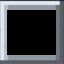
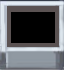
thrown off dishes into bin

diff --git a/src/entity/Bin.java b/src/entity/Bin.java
@@ -5,19 +5,53 @@ import entity.base.Block;
 import entity.base.Entity;
 import entity.base.Interactable;
 import exception.InteractFailedException;
+import javafx.scene.canvas.GraphicsContext;
+import javafx.scene.image.Image;
 import logic.Sprites;
+import screen.GameScreen;
 
 public class Bin extends Block implements Interactable{
+	private static Image bintest = new Image(ClassLoader.getSystemResource("picture/bintest.png").toString());
+	private static Image bintest2 = new Image(ClassLoader.getSystemResource("picture/bintest2.png").toString());
+			
+	
 	public boolean interacts(Player e) throws InteractFailedException{
 		if (e.isHolding()) {
-			e.setEntityHeld(null);
-			e.setHolding(false);
-			return true;
+			//if player holding something, remove holding entity (throws it into bin)
+			Entity entity = e.removeHoldingEntity();
+			
+			if(entity instanceof Dish) {
+				System.out.println(((Dish) entity).toString()+" @("+entity.getX()+","+entity.getY()+") has been thrown off!");
+			}
+			return true; 
+			
 		}else{
+			System.out.println("YOU ARE NOT HOLDING ANYTHING");
 			throw new InteractFailedException("There is nothing to be cast");//throw an exception; nothing to be consumed
 		}
 	}
 	public char getSymbol() {
 		return Sprites.Bin;
+	}
+	@Override
+	public int getZ() {
+		return getY()*3;
+	}
+	@Override
+	public void draw(GraphicsContext gc) {
+		int pixel = GameScreen.pixel;
+		int x = GameScreen.draw_origin_x+this.getX()*pixel;
+		int y = (GameScreen.draw_origin_y-6)+this.getY()*pixel;
+		
+		if(isAnyBlockDownward) {
+			gc.drawImage(bintest2, x, y);
+		} else {
+			gc.drawImage(bintest, x, y);
+		}
+		
+	}
+	@Override
+	public boolean isVisible() {
+		return true;
 	}
 }

diff --git a/src/entity/Dish.java b/src/entity/Dish.java
@@ -10,11 +10,11 @@ import screen.GameScreen;
 
 public class Dish extends Entity {//implements Holdable{
 	private ArrayList<Ingredient> onDishExists;
-	private boolean isDestroyed;
 	
 	private static Image dish_empty = new Image(ClassLoader.getSystemResource("picture/dish_empty.png").toString());
 	
 	public Dish() {
+		setDestroyed(false);
 		this.onDishExists = new ArrayList<Ingredient>();
 	}
 
@@ -33,6 +33,7 @@ public class Dish extends Entity {//implements Holdable{
 			}
 		}return false;
 	}
+	
 	public void adds(Entity e) {
 		if (e instanceof Fish) {
 			Fish fish = (Fish) e;
@@ -45,6 +46,13 @@ public class Dish extends Entity {//implements Holdable{
 			this.onDishExists.add(tomato);
 		}
 	}
+	
+	public String toString() {
+		String result = "DISH";
+		return result;
+	}
+	
+	
 	public ArrayList<Ingredient> getOnDishExists() {
 		return this.onDishExists;
 	}
@@ -64,6 +72,6 @@ public class Dish extends Entity {//implements Holdable{
 	}
 	@Override
 	public boolean isVisible() {
-		return true;
+		return !isDestroyed();
 	}
 }

diff --git a/src/entity/Station.java b/src/entity/Station.java
@@ -14,15 +14,14 @@ import screen.GameScreen;
 public class Station extends Block implements Interactable{
 
 	private Entity OnStationExists;
-	protected boolean visible;
 	
 	private static Image station1 = new Image(ClassLoader.getSystemResource("picture/station1.png").toString());
 	private static Image station2 = new Image(ClassLoader.getSystemResource("picture/station2.png").toString());
 	
 	public Station() {
 		setOnStationExists(null);
-		visible = true;
 	}
+	
 	
 	public boolean interacts(Player e) throws InteractFailedException{
 		if (!e.isHolding()) {
@@ -105,7 +104,7 @@ public class Station extends Block implements Interactable{
 
 	@Override
 	public boolean isVisible() {
-		return visible;
+		return true;
 	}
 
 	

diff --git a/src/entity/Player.java b/src/entity/Player.java
@@ -14,7 +14,6 @@ public class Player extends Entity implements Updatable{
 	private boolean isHolding;
 	private Entity entityHeld;
 	private int PlayerNumber;
-	protected boolean visible;
 	
 	private int timeStandStill;
 	private boolean isStill;
@@ -44,6 +43,16 @@ public class Player extends Entity implements Updatable{
 		setTimeStandStill(0);
 		setStill(true);
 	}
+	
+	public Entity removeHoldingEntity() {
+		setHolding(false);
+		getEntityHeld().setDestroyed(true);
+		Entity removedEntity = getEntityHeld();
+		setEntityHeld(null);
+		
+		return removedEntity;
+	}
+	
 	
 	public boolean move(Direction dir) {
 		setFaceDirection(dir);

diff --git a/src/entity/base/Entity.java b/src/entity/base/Entity.java
@@ -5,6 +5,8 @@ import sharedObject.IRenderable;
 public abstract class Entity implements IRenderable {
 	private int x;
 	private int y;
+	
+	private boolean isDestroyed;
 
 	public int getX() {
 		return x;
@@ -18,5 +20,14 @@ public abstract class Entity implements IRenderable {
 	public void setY(int y) {
 		this.y = y;
 	}
+	public boolean isDestroyed() {
+		return isDestroyed;
+	}
+	public void setDestroyed(boolean isDestroyed) {
+		this.isDestroyed = isDestroyed;
+	}
+	
+	
+	
 	
 }

diff --git a/src/entity/DishPicker.java b/src/entity/DishPicker.java
@@ -25,6 +25,7 @@ public class DishPicker extends Block implements Interactable{
             e.setHolding(true);
             return true;
         } else {
+        	System.out.println("You can't take more dish, because you hands aren't available!");
             throw new InteractFailedException("Please place donw the carried item before picking up a new dish");
         }
     }

diff --git a/src/sharedObject/RenderableHolder.java b/src/sharedObject/RenderableHolder.java
@@ -24,7 +24,7 @@ public class RenderableHolder {
 	public void add(IRenderable entity) {
 		entities.add(entity);
 		
-		System.out.println("Suscessfully added "+entity.toString()+"\nto entites");
+		System.out.println("Suscessfully added "+entity.toString()+"\nto entites....");
 		
 		Collections.sort(entities, comparator);
 	}
